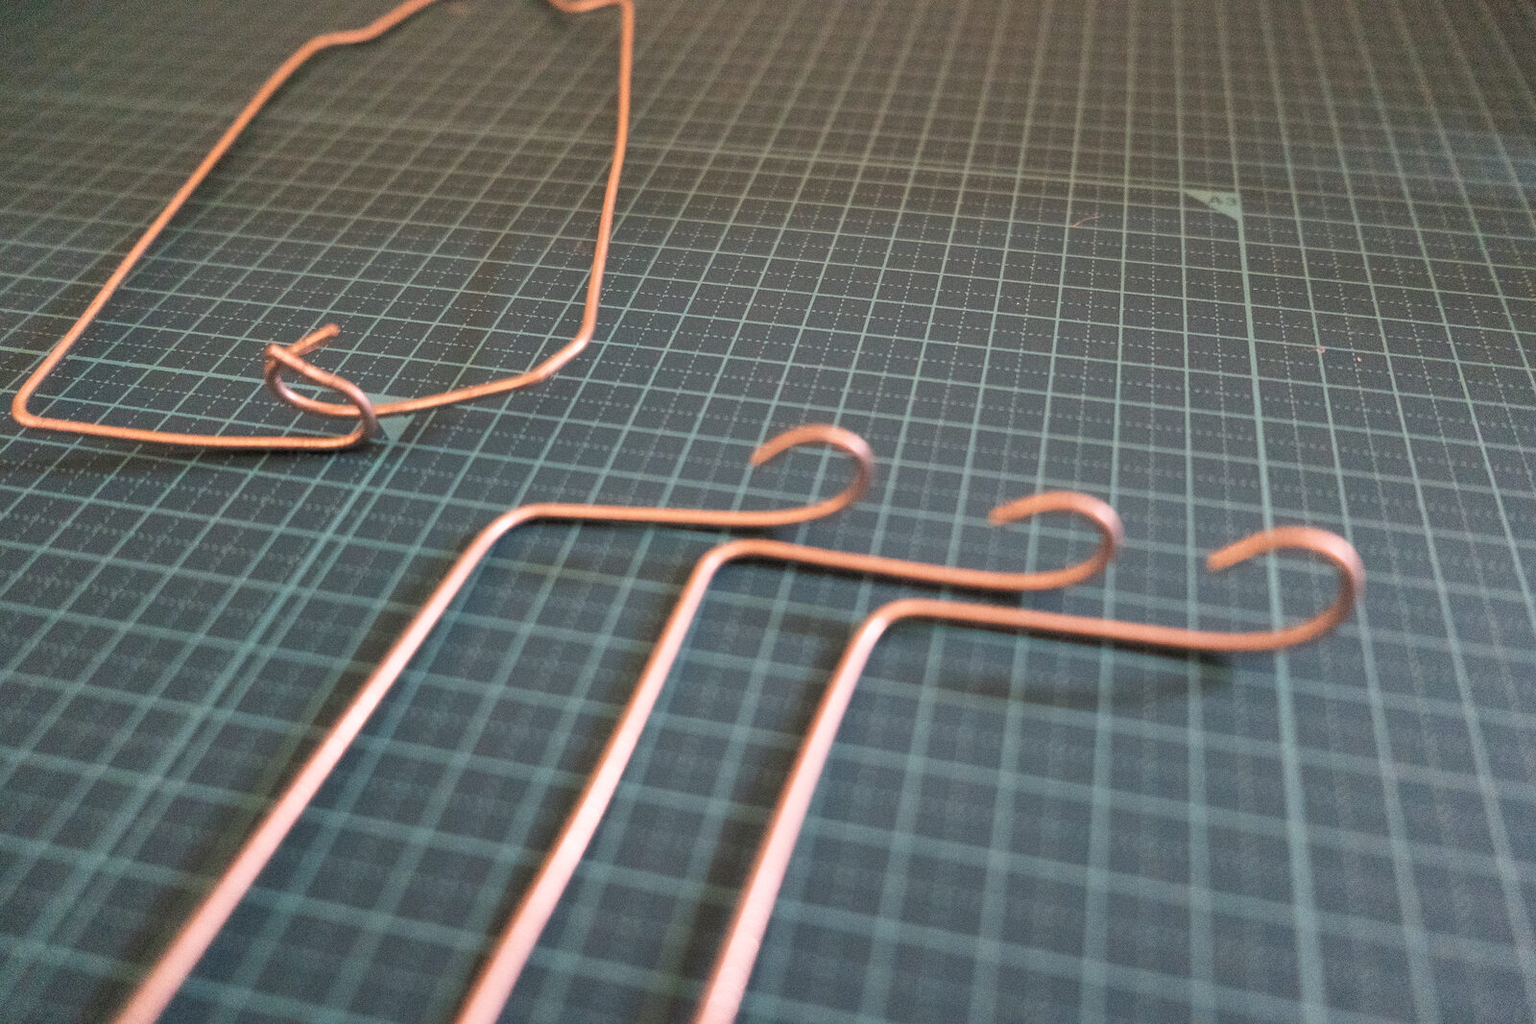
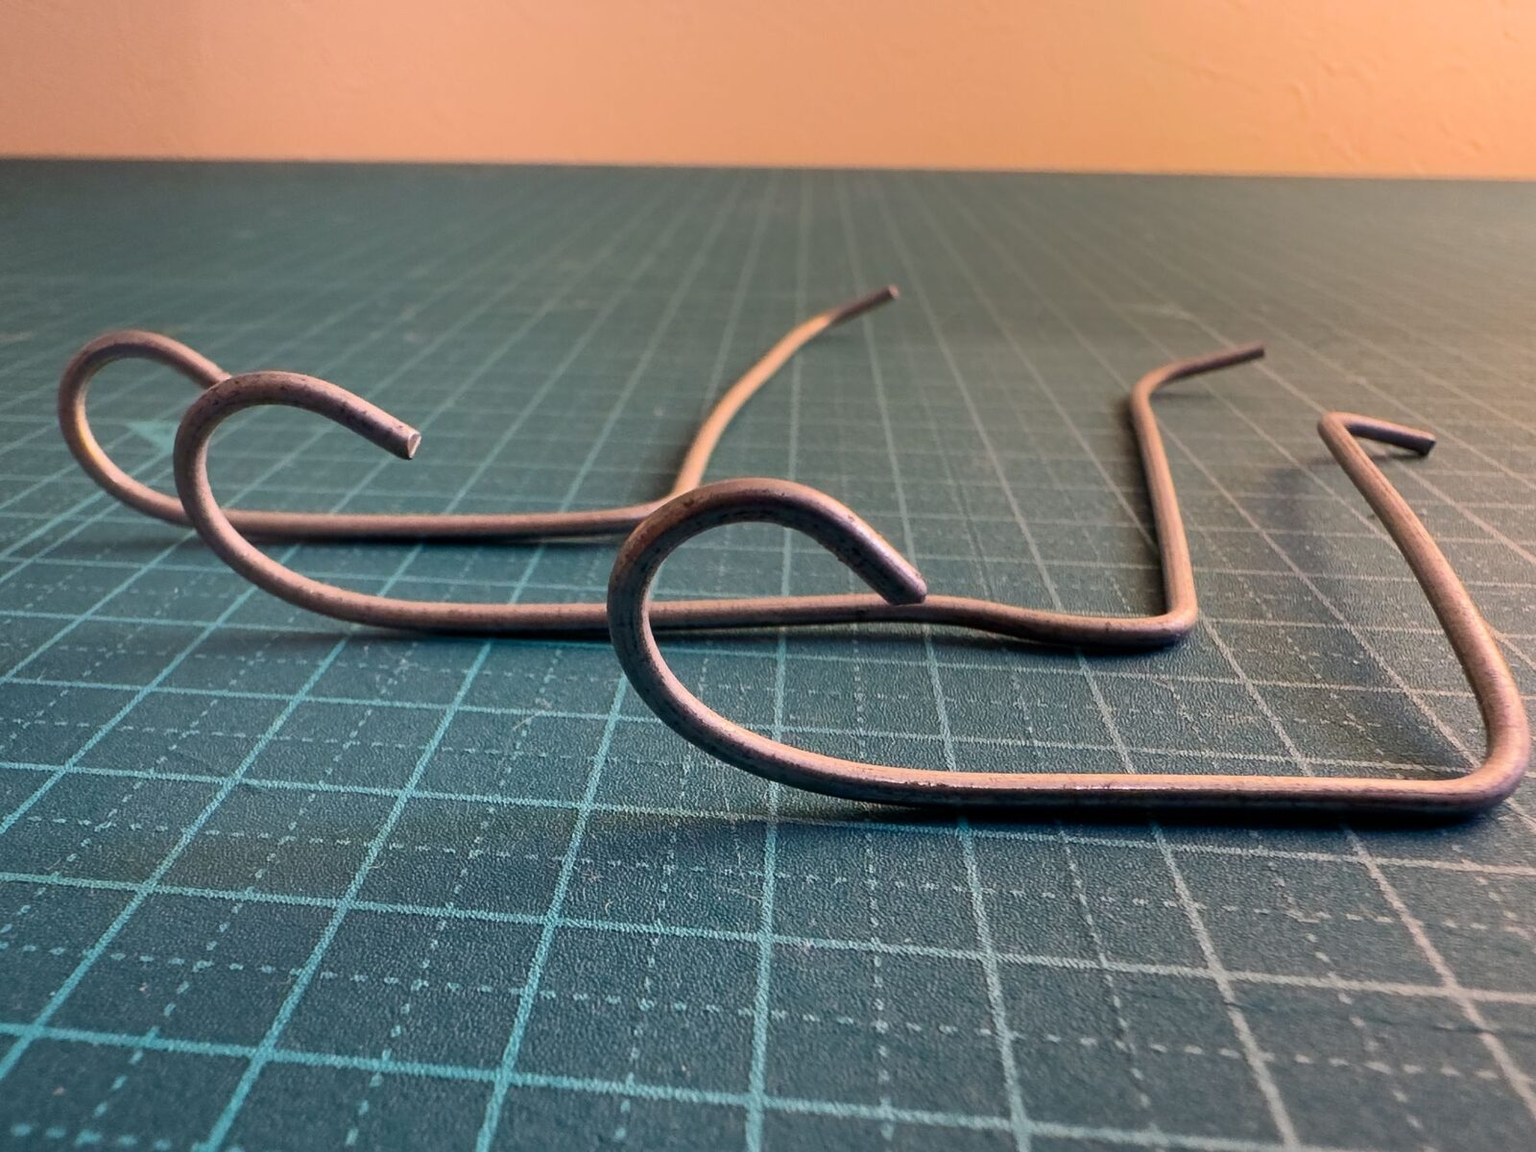
Photograph the last of the build, and say each part by one name
Nine photos the notes had described but not shown: the printed ring with its
three leg holes, the frame and the legs laid flat, the frame sitting where it
belongs inside the body, the socket seen from the side, the four resep steps,
and the finished lamp. `wire-parts.jpg` is a cleaner reshoot. Three go: the two
`socket-fitted` frames the side view replaces, and the washers, which showed a
part the text no longer singles out.

The parts now carry one name each. The legs were 脚 in the settings panel and
the build guide but 足 in the notes, and the wire that holds the body taut was
「上下のつっぱりのパーツ」 in the prose, 枠 in the captions and 枠 in the guide —
three names for one piece of wire, on pages a reader moves between. 足 and 枠
throughout, the first mention glossed as「火袋を上下に張る枠」. English already
said legs and frame, so this is the Japanese catching up.

The build note stops saying 型 where it means the washi template, introduces the
legs at the photo that first shows their holes rather than 90 lines later, and
puts the 2mm sentence under the picture of the wire it is talking about. The
motivation note gets the finished lamp — it was the only one with no photo at
all — and its English drops two clauses the Japanese never had.

`finished.jpg` is remade from the full-size original; the copy in the tree was
a 543px downscale.

diff --git a/src/notes/articles/ja/sockets.md b/src/notes/articles/ja/sockets.md
@@ -6,21 +6,19 @@ category: 制作ノート
 
 # 足とソケットの付け方
 
-## 一番つまずいたところ {#the-hard-part}
+## 足を取り付ける口輪の作成 {#leg-ring}
 
-試作をしていて一番苦労したのは、火袋の形ではなく、足とライトソケットの取り付けでした。
+![火袋の内側から。足と枠を通した下の口輪は、3Dプリントではなく針金で作ったもの](notes/inside-the-shade.jpg)
 
-参考にしたAkariライトには、そのライトに合わせた専用のパーツが揃っています。組み合わせると火袋の形が綺麗に整い、足もしっかり立ちます。個人で作る場合はそうはいきません。手に入るソケットの形が国や店によって違うので、そこは自分で工夫するしかありませんでした。
+Tomoshibiでは、設定画面で足ソケットを有効にすると、下の口輪に足を挿す穴が3ヶ所つきます。
 
-## 足は3本 {#three-legs}
-
-Tomoshibiでは、設定画面で脚ソケットを有効にすると、下の口輪に足を挿す穴が3ヶ所つきます。
+![印刷した下の口輪。足を挿す穴が3ヶ所](notes/leg-socket-ring.jpg)
 
 段ボールで作る場合は、下の開口のサイズに合わせた型紙の線に沿って針金を曲げ、足を通す輪を3ヶ所作ります。足の先はそこに通して折り返すだけです。
 
 口輪を針金で作る場合は、段ボールのPDFに型が含まれているので、それを参考に作ってみてください。
 
-![型紙の線に合わせて針金を曲げる](notes/wire-ring-bending.jpg)
+![型紙の線に合わせて針金を曲げる。写真では指で曲げているが、ペンなどに沿わせると綺麗に曲がる](notes/wire-ring-bending.jpg)
 
 ![曲げ終わった上下の口輪。下の口輪には足を通す輪が3ヶ所](notes/wire-rings-done.jpg)
 
@@ -36,17 +34,17 @@ Akariライトのソケットには、下部に足と火袋を張るパーツを
 
 ![枠(左)と足3本(右)を平らに置いたもの](notes/wire-parts-flat.jpg)
 
-火袋を上下に張るパーツも、同じようにソケットで固定します。上端は火袋の上の開口からはみ出すように曲げて、持ち運ぶための取手にします。その下は上の開口にちょうど引っ掛かる幅で曲げます。下端はソケットの固定する部分で、足と同じように輪にします。
+火袋を上下に張る枠も、同じようにソケットで固定します。上端は上の開口にちょうど引っ掛かる幅で曲げます。下端はソケットの固定する部分で、足と同じように輪にします。
 
-![枠と、先端を輪にした足3本](notes/wire-parts.jpg)
+![先端を輪にした足3本](notes/wire-parts.jpg)
 
-あとはソケットのねじ込み部分を緩め、足3本と上下のつっぱりのパーツの輪をまとめて引っ掛けて、ネジを締めれば固定されます。足やソケットの角度は、そのあとで調整してください。
+![火袋を上下に張る枠](notes/wire-frame.jpg)
 
-![足と枠の輪をソケットに嵌め込んだところ。まだ締めていない](notes/socket-fitted.jpg)
+![サイズは上下の口輪の位置を参考に針金を曲げます。上部のはみ出す部分は取っ手になります](notes/frame-in-place.jpg)
 
-![同じものを正面から](notes/socket-fitted-front.jpg)
+あとはソケットのねじ込み部分を緩め、足3本と枠の輪をまとめて引っ掛けて、ネジを締めれば固定されます。足やソケットの角度は、そのあとで調整してください。
 
-![火袋の内側から。足と枠を通した下の口輪は、3Dプリントではなく針金で作ったもの](notes/inside-the-shade.jpg)
+![横から見たところ](notes/socket-fitted-side.jpg)
 
 足の先端にはゴム足をつけるか、単純に曲げておくと、置く場所のキズを抑えることができます。
 
@@ -54,13 +52,25 @@ Akariライトのソケットには、下部に足と火袋を張るパーツを
 
 ## レセップを使う {#receptacle}
 
-もう一つは、壁などに取り付けるときに使うレセップを使った方法です。足と、上下のつっぱりのパーツの作り方は先ほどと同じです。
+もう一つは、壁などに取り付けるときに使うレセップを使った方法です。足と枠の作り方は先ほどと同じです。
 
-僕はペンダントライトより先にこちらを試しました。ただしこの方法は、自作したモデルを印刷して組み立てたので、3Dプリンターが必要です。
+この方法は、自作したモデルを印刷して組み立てたので、3Dプリンターが必要です。
 
 レセップにはねじ込む箇所がないので、それを再現できるパーツを作りました。印刷用の[STL](notes/resep-adapter.stl)と、寸法を変えたい場合の[FreeCADのファイル](notes/resep-adapter.FCStd)を置いてあります。日本のレセップで試したものなので、穴の位置やサイズは手元のレセップに合わせて調整が必要かもしれません。
 
-使うのはネジとワッシャーとナットです。ネジを中央の窪みに通し、その上にレセップを取り付けます。下に伸びたネジに、先ほどと同じように足と上下のつっぱりのパーツを引っ掛けます。あとはナットで締めると固定できます。ワッシャーを大きいものにすると、もっと安定するかもしれません。
+![印刷したアダプタ。中央の窪みにネジを通す](notes/resep-adapter.jpg)
+
+![アダプタにレセップを取り付けたところ](notes/resep-mounted.jpg)
+
+使うのはネジとワッシャーとナットです。ネジを中央の窪みに通し、その上にレセップを取り付けます。
+
+![裏から。下に伸びたネジに足と枠を引っ掛ける](notes/resep-underside.jpg)
+
+下に伸びたネジに、先ほどと同じように足と枠を引っ掛けます。あとはナットで締めると固定できます。ワッシャーを大きいものにすると、もっと安定するかもしれません。
+
+写真では枠をネジに掛けていませんが、パーツによってはこのような留め方もできます。
+
+![火袋の内側から。足と枠をナットで締めたところ](notes/resep-inside.jpg)
 
 ## 小さいライトが合う {#small-bulbs}
 
@@ -68,10 +78,12 @@ Akariライトのソケットには、下部に足と火袋を張るパーツを
 
 バルブの色は電球色がお勧めです。昼白色より、和紙を通した暖かい色のほうがよく合います。
 
-E17のペンダントライトのソケットなら、IKEAのSTRÅLA(ストローラ)が使えます。ねじ込める機構もあるので、足とつっぱりのパーツはそこで留められます。ただ、その機構がバルブに近いので、火袋の下からはみ出てしまうことがあります。これに合わせたパーツを開発してもいいかもしれません。
+E17のペンダントライトのソケットなら、IKEAのSTRÅLA(ストローラ)が使えます。ねじ込める機構もあるので、足と枠はそこで留められます。ただ、その機構がバルブに近いので、火袋の下からはみ出てしまうことがあります。これに合わせたパーツを開発してもいいかもしれません。
 
 ![IKEAのSTRÅLA(ストローラ)](notes/strala.jpg)
 
 ## まだ工夫の余地がある {#still-open}
+
+参考にしたAkariライトには、そのライトに合わせた専用のパーツが揃っていて、組み合わせると火袋の形が綺麗に整い、足もしっかり立ちます。個人で作る場合はそうはいかず、手に入るソケットも国や店によって違います。
 
 足の取り付け方には、まだまだ工夫の余地がありそうです。手元のソケットに合わせてうまくいった方法があれば、ぜひ教えてください。

diff --git a/src/notes/articles/en/sockets.md b/src/notes/articles/en/sockets.md
@@ -6,21 +6,19 @@ category: Build notes
 
 # Legs and how to mount the socket
 
-## The part I got stuck on {#the-hard-part}
+## Making the ring the legs mount to {#leg-ring}
 
-The hardest part of prototyping was not the shape of the shade. It was attaching the legs and the lamp socket.
-
-The Akari lights I was looking at come with parts made for those lights. Put them together and the body takes its shape cleanly and the legs stand firm. Making one yourself is not like that. The sockets you can buy differ by country and by shop, so that part was left to me to work out.
-
-## Three legs {#three-legs}
+![From inside the body. The bottom ring the legs and the frame pass through is bent from wire here, not 3D printed](notes/inside-the-shade.jpg)
 
 Turn on leg sockets in the settings and the bottom ring gets three holes for the leg ends.
+
+![The printed bottom ring, with three holes for the legs](notes/leg-socket-ring.jpg)
 
 On the cardboard route you bend wire along the template line sized to the bottom opening, making three eyes for the legs. The leg ends just pass through them and fold back.
 
 If you make the rings from wire, the cardboard PDF carries a template for them, so use that as your guide.
 
-![Bending the wire to the line on the template](notes/wire-ring-bending.jpg)
+![Bending the wire to the line on the template. I am bending it by hand here; around a pen it comes out neater](notes/wire-ring-bending.jpg)
 
 ![The finished rings. The bottom one carries three eyes for the legs](notes/wire-rings-done.jpg)
 
@@ -36,17 +34,17 @@ Bend each leg into a dog-leg, and make a loop where it reaches the middle of the
 
 ![The frame (left) and the three legs (right), laid flat](notes/wire-parts-flat.jpg)
 
-The frame that holds the body taut is fixed by the same socket. Bend the top end so it stands proud of the top opening, making a handle to carry the lamp by. Below that, bend it to the width that catches on the top opening. The bottom end becomes a loop, like the legs, at the part of the socket that clamps.
+The frame that holds the body taut is fixed by the same socket. Bend the top end to the width that catches on the top opening. The bottom end becomes a loop, like the legs, at the part of the socket that clamps.
 
-![The frame and the three legs, their ends bent into loops](notes/wire-parts.jpg)
+![The three legs, their ends bent into loops](notes/wire-parts.jpg)
+
+![The frame that holds the body top and bottom](notes/wire-frame.jpg)
+
+![Bend the wire to where the two rings sit. The part standing out above becomes the handle](notes/frame-in-place.jpg)
 
 Then loosen the threaded part of the socket, hook the three legs' loops and the frame's loop onto it together, and tighten it down. Adjust the angle of the legs and the socket afterwards.
 
-![The legs' and the frame's loops fitted onto the socket, before tightening](notes/socket-fitted.jpg)
-
-![The same, from the front](notes/socket-fitted-front.jpg)
-
-![From inside the body. The bottom ring the legs and the frame pass through is bent from wire here, not 3D printed](notes/inside-the-shade.jpg)
+![Seen from the side](notes/socket-fitted-side.jpg)
 
 Rubber feet on the leg ends, or simply bending the ends over, will keep them from marking whatever the lamp stands on.
 
@@ -56,11 +54,23 @@ Some sockets have a threaded part at the top instead. Working with that one is j
 
 The other way uses the kind of holder you mount on a wall — a resep, as it is called in Japan. The legs and the frame are made exactly as above.
 
-I tried this one before the pendant socket. It does need a 3D printer, though, because I printed and assembled a model of my own for it.
+This one does need a 3D printer, because I printed and assembled a model of my own for it.
 
 A holder like this has no threaded part to clamp against, so I made a part that stands in for one. There is an [STL](notes/resep-adapter.stl) to print, and a [FreeCAD file](notes/resep-adapter.FCStd) if you want to change the dimensions. I tried it with a Japanese holder, so the hole positions and sizes may need adjusting to the one in your hands.
 
-You also need a screw, a washer and a nut. Pass the screw through the recess in the middle and mount the holder on top of it. Onto the screw now sticking out below, hook the legs and the frame the same way as before. Tighten the nut and it holds. A larger washer might make it steadier still.
+![The printed adapter. The screw passes through the recess in the middle](notes/resep-adapter.jpg)
+
+![The holder mounted on the adapter](notes/resep-mounted.jpg)
+
+You also need a screw, a washer and a nut. Pass the screw through the recess in the middle and mount the holder on top of it.
+
+![From below: the legs and the frame hook onto the screw sticking out](notes/resep-underside.jpg)
+
+Onto the screw now sticking out below, hook the legs and the frame the same way as before. Tighten the nut and it holds. A larger washer might make it steadier still.
+
+In the photo the frame is not hooked onto the screw. Depending on the parts you have, it can be held this way instead.
+
+![From inside the body, with the legs and the frame tightened down](notes/resep-inside.jpg)
 
 ## Small bulbs suit it {#small-bulbs}
 
@@ -73,5 +83,7 @@ For a pendant socket in E17, IKEA's STRÅLA works. It has a threaded part to cla
 ![IKEA's STRÅLA](notes/strala.jpg)
 
 ## Still room to work this out {#still-open}
+
+The Akari lights I was looking at come with parts made for those lights: put them together and the body takes its shape cleanly and the legs stand firm. Making one yourself is not like that, and the sockets you can buy differ by country and by shop.
 
 There is plenty of room left to improve how the legs mount. If you find something that works with the socket you have, I would like to hear about it.

diff --git a/src/notes/articles/en/build.md b/src/notes/articles/en/build.md
@@ -18,10 +18,6 @@ category: Build notes
 - washi
 - something to fix the bamboo with (thread or tape)
 
-![The paste I use: wallpaper paste and wood glue](notes/paste.jpg)
-
-![Wire](notes/wire-coil.jpg)
-
 ### Tools
 
 - two brushes: one to press the washi onto the bamboo, one to apply the paste
@@ -45,7 +41,9 @@ Put together the mold you printed, or the one you cut from cardboard.
 
 ![The 3D-printed mold assembled, on its stand](notes/printed-mold.jpg)
 
-The cardboard route has no stand, so you get the mold for the body only. A stand makes pasting the washi a little easier, but it is not essential.
+The cardboard route has no stand, so you get the mold for the body only.
+
+Another way might be to make a hole in the middle of the top and bottom koma, put a rod through it and work with the mold on its side.
 
 ![The mold cut from cardboard and assembled](notes/cardboard-mold.jpg)
 
@@ -57,13 +55,19 @@ For the grooves in the cardboard, make a short straight cut sideways with the ti
 
 On the 3D-printed route you can print the rings too. On cardboard you cannot, so you bend them from wire.
 
+![A printed ring, this one with three holes for the legs](notes/leg-socket-ring.jpg)
+
+The holes take the legs that hold the light up. How the legs mount has a note of its own: [Legs and how to mount the socket](note-sockets).
+
+![Wire](notes/wire-coil.jpg)
+
+The wire in the photo is 2mm, but use whatever thickness you like. Some thickness to it gives the rings their strength and holds them steady.
+
 The PDF carries a template for the rings, so bend the wire to it with pliers. Mind the wire's ends, which can be sharp.
 
-![Bending the wire to the line on the template](notes/wire-ring-bending.jpg)
+![Bending the wire to the line on the template. I am bending it by hand here; around a pen it comes out neater](notes/wire-ring-bending.jpg)
 
 ![The finished rings](notes/wire-rings-done.jpg)
-
-I use 2mm wire, but use whatever thickness you like.
 
 ![The wire rings fitted onto the cardboard mold](notes/cardboard-rings.jpg)
 
@@ -93,7 +97,7 @@ Wind the bamboo into the mold's groove. Mark it where it comes round to itself, 
 
 ![The bamboo wound onto the cardboard mold](notes/bamboo-wound-cardboard.jpg)
 
-As for fixing it: looking into how lanterns are made, I kept seeing tape or thread, and I use thread as a rule, because it seems less visible once the lamp is lit. The Akari lights I was looking at are held with thread too. Look inside one if you get the chance to see a real one — it is beautifully done and you cannot pick it out at all.
+As for fixing it: looking into how lanterns are made, I kept seeing tape or thread, and I use thread as a rule, because it seems less visible once the lamp is lit. What I wind on is sewing machine thread. The Akari lights I was looking at were held with thread too. Look inside one if you get the chance to see a real one — it is beautifully done and you cannot pick it out at all.
 
 ### Winding a spiral {#winding-spiral}
 
@@ -111,11 +115,13 @@ There are many kinds of washi, but whatever you can get should be fine. I use th
 
 ![Shoji paper](notes/washi-sheets.jpg)
 
-The traditional way seems to be to paste the washi on and then trim the excess with a razor. That can be hard depending on the paper, so the washi panels can be generated as a template too. They are worked out from the body's own shape, but hold them against it before you cut. The top and bottom are sized to fold over the rings, and that is worth adjusting as well.
+The traditional way seems to be to paste the washi on and then trim the excess with a razor. That can be hard depending on the paper, so the washi panels can be generated as a template too, to cut before you paste. They are worked out from the body's own shape, but hold the template itself against the body to check the fit before you cut any washi. The top and bottom are sized to fold over the rings, and that is worth adjusting as well.
 
 ![Cut to the washi template](notes/washi-panels.jpg)
 
 To paste: brush the paste onto the bamboo, then lay the washi over it. Spraying the washi with water softens it and makes it easier to lay. If it is still stiff, crumple it into a ball and open it out again — it comes out softer still.
+
+![The paste I use: wallpaper paste and wood glue](notes/paste.jpg)
 
 With the washi in place, stroke it gently with a shoe-polish brush and it takes to the bamboo cleanly. Some washi is stiff; if yours is, try something thinner.
 
@@ -150,6 +156,8 @@ For a pendant light there is a simpler way as well: bend a piece of wire that ca
 ![Inside the body: the socket hooked onto the wire](notes/socket-hooked.jpg)
 
 ## Done {#done}
+
+![The finished lamp](notes/finished.jpg)
 
 The feel of it changes with the washi and with the size of the bulb, so make plenty of them.
 

diff --git a/src/notes/articles/en/motivation.md b/src/notes/articles/en/motivation.md
@@ -38,11 +38,9 @@ I wanted Tomoshibi to make the process feel as simple as possible: decide the sh
 
 ## Starting with 3D printing {#first-prototype}
 
-I had a 3D printer at home that had been gathering dust, so this was a good excuse to use it again. I started with the 3D-printed mold route first, because if I could make a working mold that way, I would feel more confident publishing the site.
+I had a 3D printer at home that had been gathering dust, so this was a good excuse to use it again. I started with the feature that makes the mold on a 3D printer.
 
 The basic idea was to edit the side profile of the lamp and generate the mold parts from that profile. I also wanted to show a 3D preview in the browser, so first-time users could understand what they were about to make.
-
-Most of the implementation was done with Claude Code. The idea for Tomoshibi came to me on a train while I was heading out for a hike, and I was able to start prototyping it right there. It really is an astonishing time to be making things.
 
 ## Looking at the mold structure {#learning-from-akari}
 
@@ -52,7 +50,11 @@ I was especially curious about the notched outer edge that catches the bamboo. S
 
 ## The first build worked {#first-build}
 
-Thanks to all of that, I managed to make a first lamp. There are still many things I want to improve, but the washi light I made with my own hands has its own charm, and I was very happy with it.
+Thanks to all of that, I managed to make a first lamp.
+
+![The first lamp that came together](notes/finished.jpg)
+
+There are still many things I want to improve, but the washi light I made with my own hands has its own charm, and I was very happy with it.
 
 I would like to improve support for larger molds and the cardboard route in the future.
 
@@ -62,7 +64,7 @@ There is also one difficult problem with this kind of lamp-making: even if Tomos
 
 I am still learning by trial and error as I make washi lamps myself. I plan to collect what I learn here in Notes.
 
-The build guide is meant to stay focused on the shortest path to making a lantern. Material choices, mistakes, design reasons, and small discoveries fit better here, where they do not interrupt the step-by-step flow.
+The build guide is meant to stay focused on the shortest path to making a lantern. Material choices, mistakes, and design reasons fit better here, where they do not interrupt the step-by-step flow.
 
 Tomoshibi is a site for helping people enjoy making washi lamps with their own hands. I would be happy if people used it to try different shapes, draw on the washi, or make lamps together with friends and family.
 
